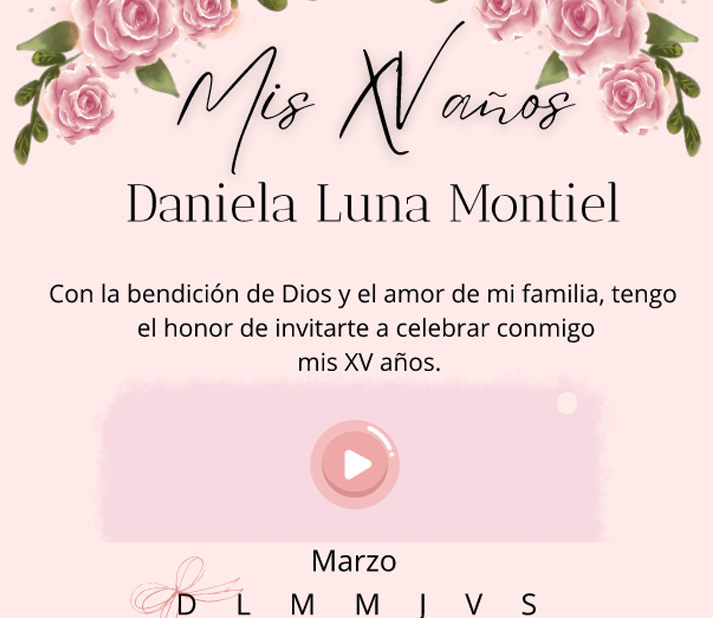
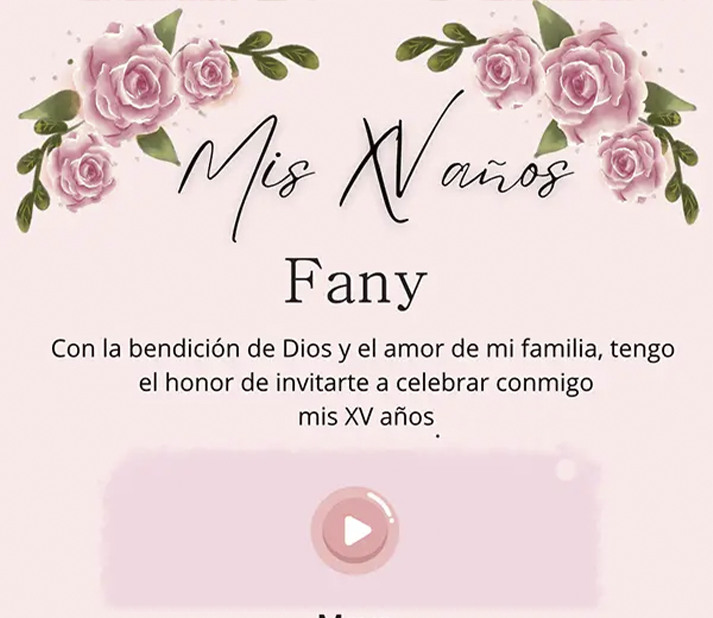
S

diff --git a/index.html b/index.html
@@ -63,7 +63,7 @@
 
 
             <div class="pst_relative w_100">
-                <img class="w_100 no_touch " src="total.webp">
+                <img class="w_100 no_touch " src="total2.webp">
             </div>
 
 
